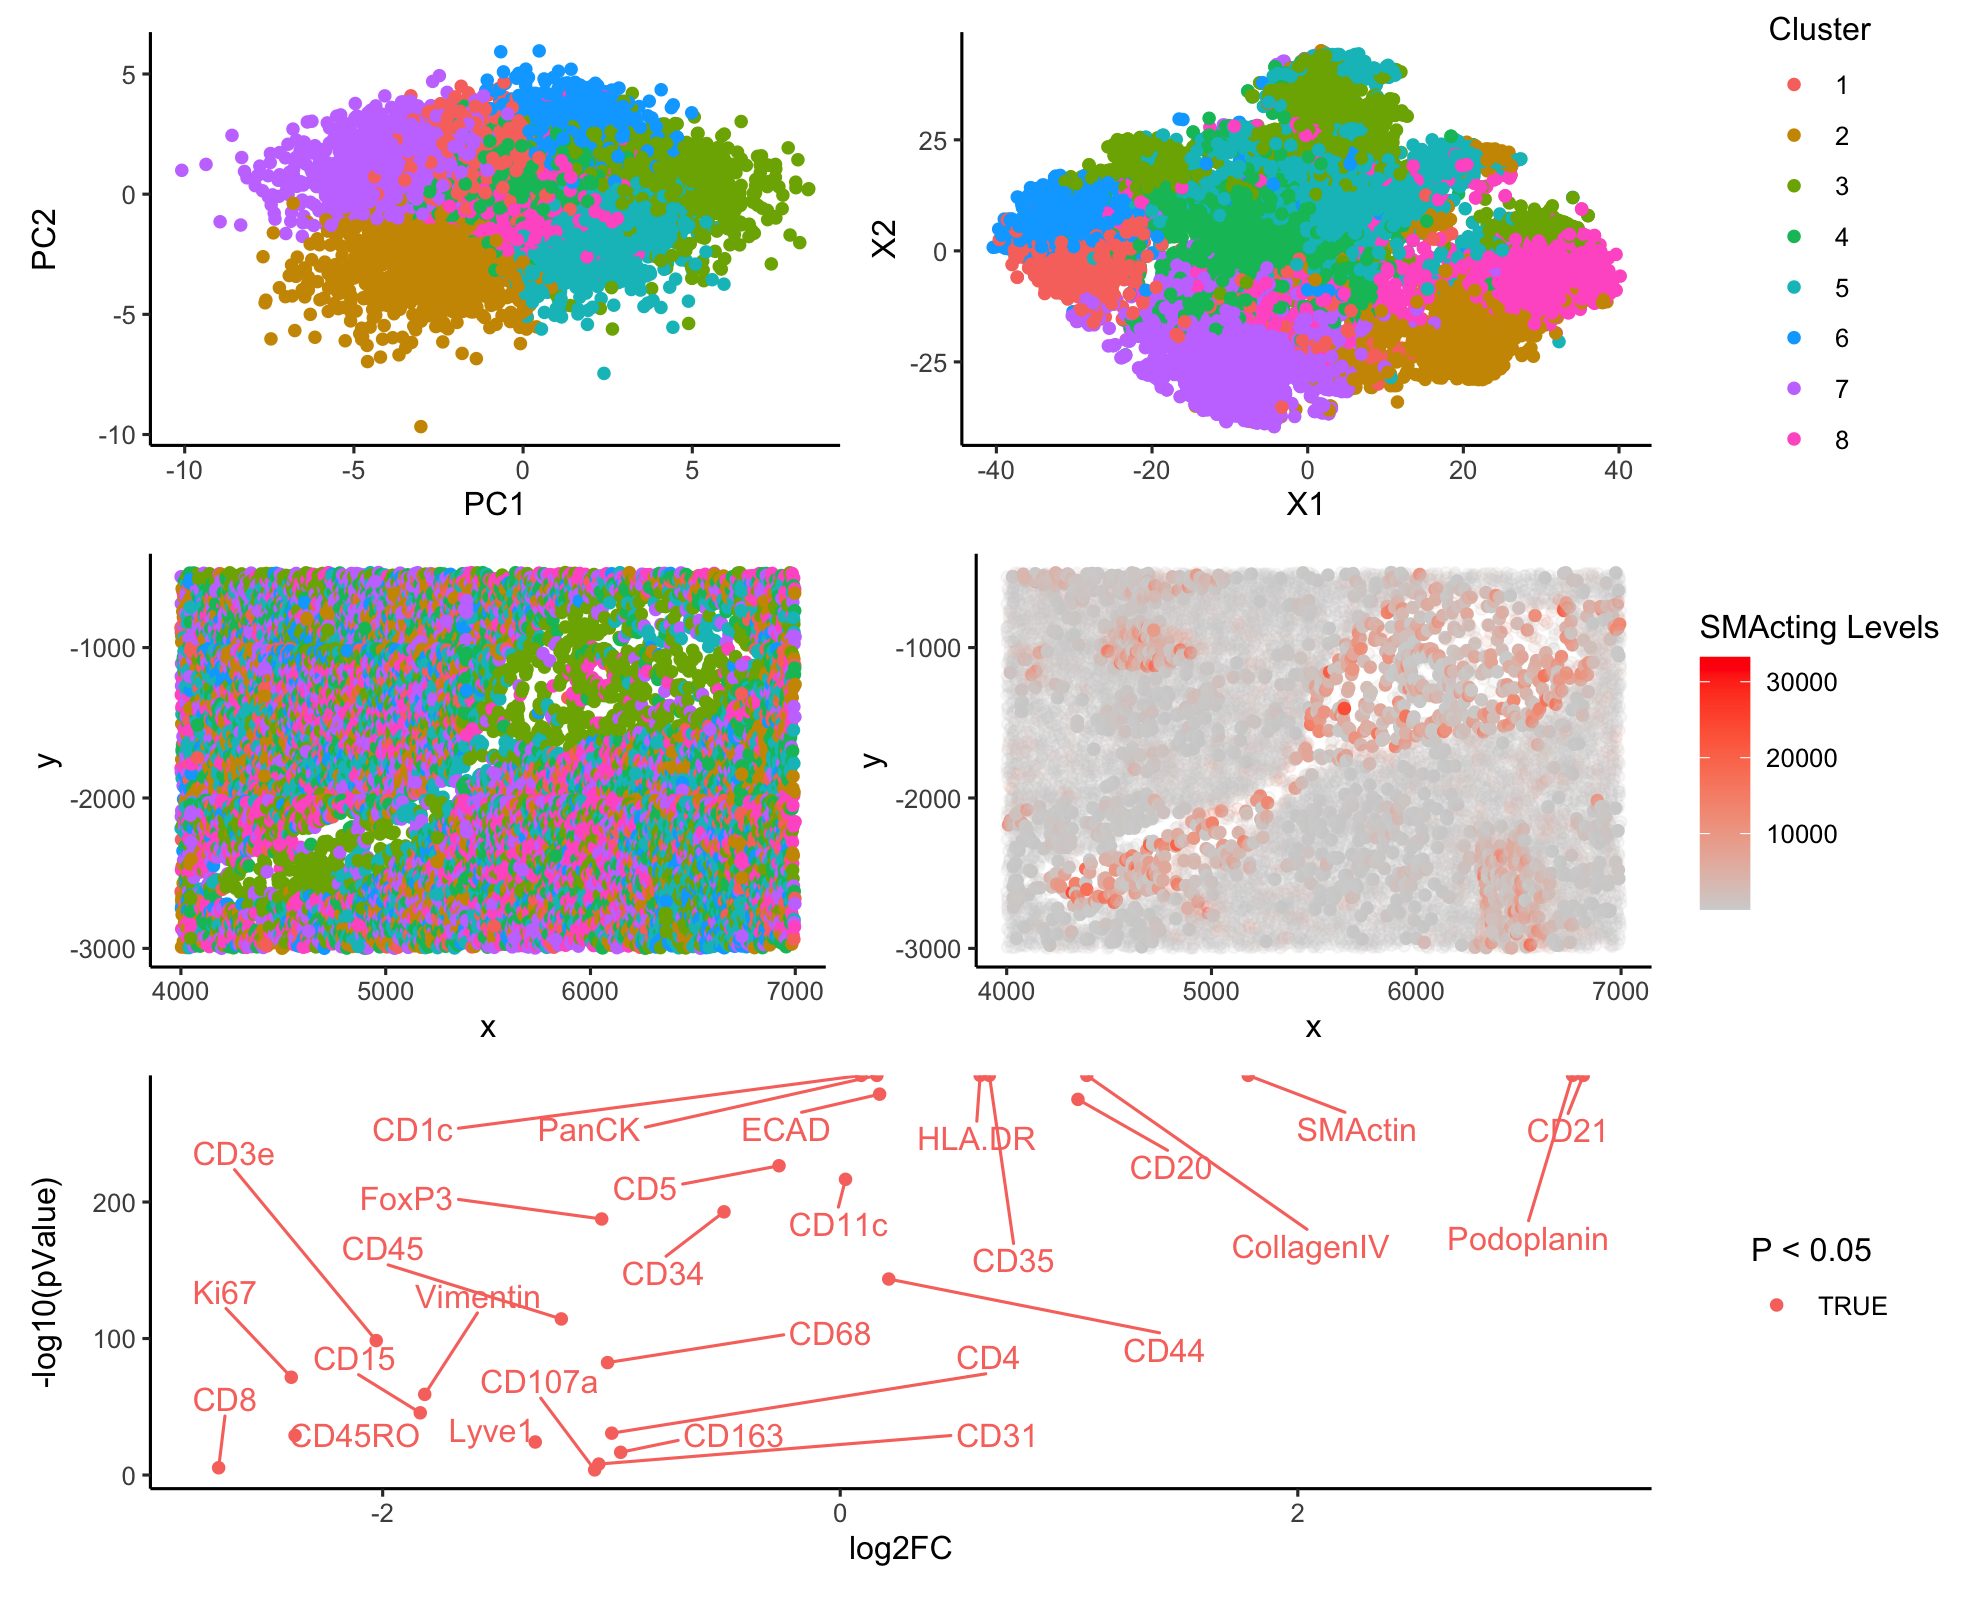
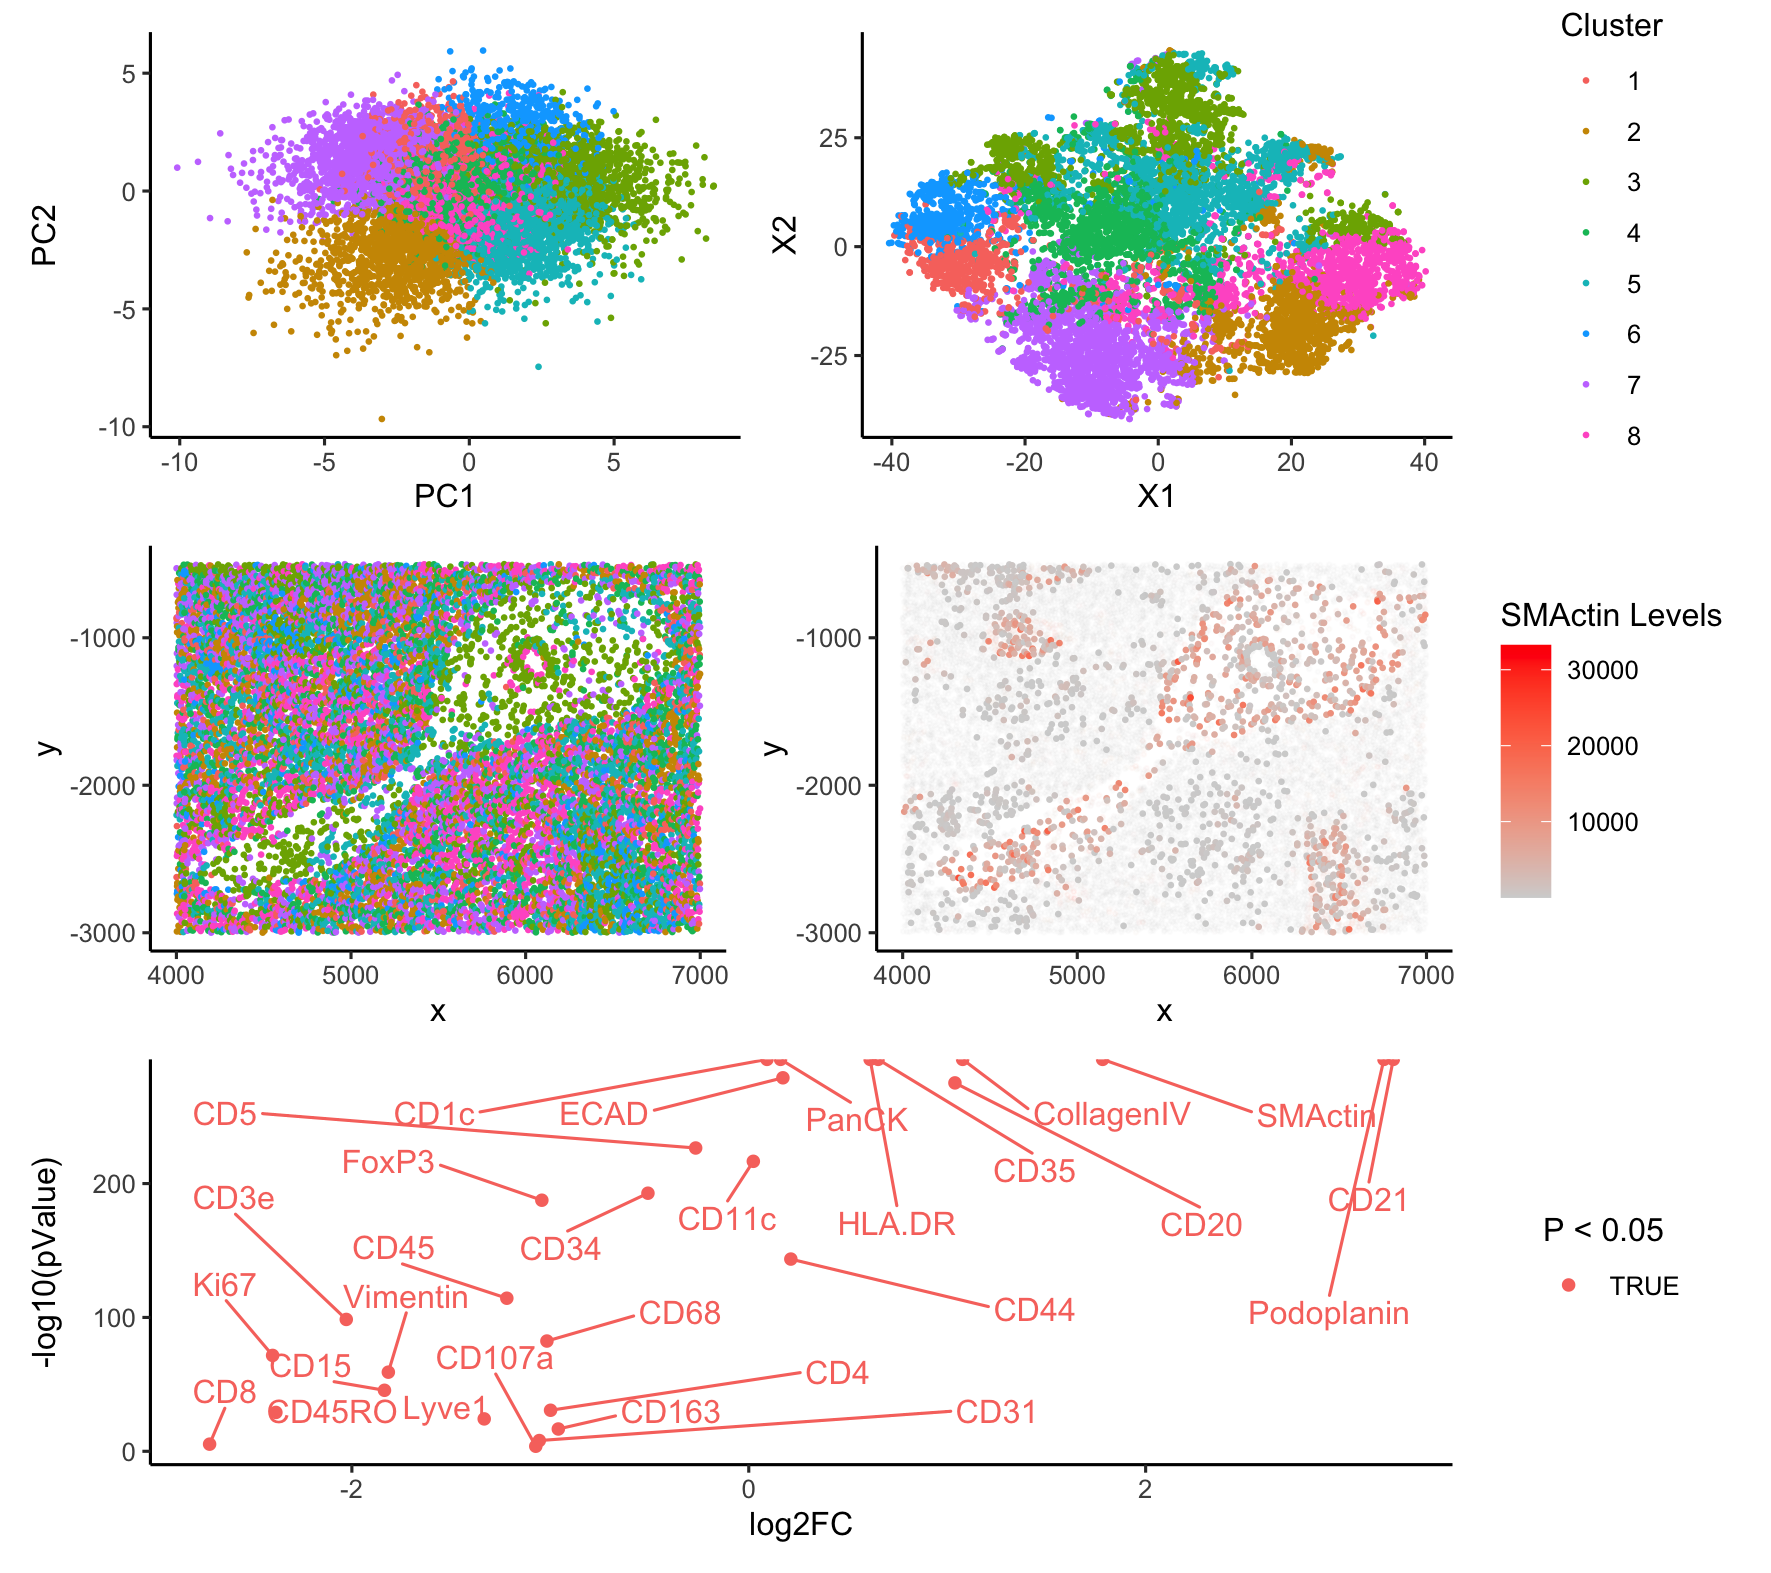
hwEC fixed

diff --git a/_posts/2023-03-10-abortvi2.md b/_posts/2023-03-10-abortvi2.md
@@ -12,6 +12,157 @@ I suspect that cluster 3 represents follciular dendritic cells (FDCs). A number 
 
 Previous research indicates that CD21 and CD35 are expressed in pairs in FDCs (Wang et al, 2011). FDCs are known to occur in the spleen and have also been shown to express SMActin (Muñoz-Fernández, 2014). Likewise, Yu, et al 2007 demonstrates that Podoplanin, another of the highly upregulated genes, is an FDC marker, albeit in the case of tumorogenesis.
 
+Code:
+```{r}
+`library(ggplot2)
+library(tidyverse)
+library(Rtsne)
+library(patchwork)
+library(ggrepel)
+
+data <- read.csv('~/genomic_data_viz/codex_spleen_subset.csv.gz',
+                 row.names = 1)
+
+# Initial Spatial Plotting
+ggplot(data = data, aes(x=x, y=y)) +
+  geom_point()
+
+# Subset data into spatial info and gene expression
+pos <- data[, 1:3]
+gexp <- data[, 4:ncol(data)]
+
+### QC
+# Plotting protein abundance per cell
+hist(rowSums(gexp))
+
+ggplot(data = data, aes(x=x, y=y, col = rowSums(gexp))) +
+  scale_color_gradient(low='lightgrey', high='red') +
+  geom_point()
+
+# Lots of variation in protein abundance, but with no obvious spatial pattern 
+
+# Plotting 
+hist(colSums(gexp), breaks = 100)
+min(colSums(gexp))
+
+# This has some pretty extreme outliers
+
+# Normalizing
+mat <- gexp / rowSums(gexp) * median(rowSums(gexp))
+mat <- log10(mat + 1)
+mat <- scale(mat)
+
+
+# Checking that this worked correctly 
+hist(rowSums(mat))
+hist(colSums(mat))
+
+
+# Clustering 
+# Finding optimal number of clusters
+within_ss_list <- c()
+max_clust = 25
+for (i in 1:max_clust){
+  set.seed(0)
+  k <- kmeans(mat, centers=i)
+  within_ss_list <- c(within_ss_list, k$tot.withinss)	
+}
+
+pltDF <- data.frame(k = 1:max_clust, withinSS <- within_ss_list)
+ggplot(pltDF, aes(x = k, y = within_ss_list)) + 
+  geom_point() + 
+  theme_classic() + 
+  scale_x_continuous(breaks=seq(1,max_clust,1),labels=seq(1,max_clust,1))
+
+# Clustering fr 
+set.seed(0)
+pc <- prcomp(mat)
+set.seed(0)
+n_centers = 8
+set.seed(0)
+k <- kmeans(mat, centers = n_centers)
+
+set.seed(0)
+emb <- Rtsne(mat)
+
+# Plotting 
+
+pca_plot <- ggplot(data.frame(pc$x), aes(x=PC1, y=PC2, color = factor(k$cluster))) +
+  geom_point(size=0.4) +
+  theme_classic() + 
+  theme(legend.position="none")
+
+tsne_plot <- ggplot(data.frame(emb$Y), aes(x=X1, y=X2, color = factor(k$cluster))) +
+  geom_point(size=0.4) +
+  labs(colour="Cluster") + 
+  theme_classic() 
+
+spatial_cluster_plot <- ggplot(pos, aes(x=x, y=y, color = factor(k$cluster))) +
+  geom_point(size=0.4) +
+  theme_classic() + 
+  theme(legend.position="none")
+
+
+for (i in seq(1, n_centers)){
+  print(ggplot(pos, aes(x=x, y=y, color = (factor(k$cluster)==i))) +
+    geom_point() + 
+    theme_classic() +
+    ggtitle(i) +
+    theme(axis.title.x = element_blank(),
+          legend.position="none")
+  )
+}
+
+cluster.cells <-  names(which(k$cluster == 3))
+other.cells <- names(which(k$cluster != 3))
+
+# First, comparing clusters 1+8 against all else
+diff<- sapply(colnames(mat), function(g){
+  wilcox.test(mat[cluster.cells, g],
+              mat[other.cells, g],
+              alternative = 'two.sided')$p.value
+  
+})
+
+head(sort(diff), n = 30)
+diff_names <- names(diff[diff < 0.05/length(diff)])
+
+ggplot(pos, aes(x=x, y=y, color = factor(k$cluster)==3)) +
+  geom_point() +
+  theme_classic()
+
+smactin <- ggplot(pos, aes(x=x, y=y, color = data.frame(gexp)$SMActin, alpha = factor(k$cluster))) +
+  geom_point(size=0.4) + 
+  labs(color='SMActin Levels') +
+  scale_alpha_manual(values = c(rep(0.05, 2), 1, rep(0.05,5)), guide = 'none') +
+  scale_color_gradient(low = 'lightgrey', high = 'red') +
+  theme_classic()
+
+
+fc <- sapply(colnames(gexp), function(g){
+  log2(mean(gexp[cluster.cells, g])/mean(gexp[other.cells, g]))
+})
+
+df_volcano <- data.frame(log2FC = fc, pValue = diff, comparison = "Group 4 vs All Others")
+
+df_volcano$gname <- rownames(df_volcano)
+
+volcano_plot <- ggplot(df_volcano, aes(x = log2FC, y = -log10(pValue), color = pValue < (0.05/ncol(mat)))) +
+  geom_point() + 
+  theme_classic() + 
+  labs(color='P < 0.05') +
+  geom_text_repel(data = df_volcano %>% 
+                    mutate(label = ifelse(gname %in% diff_names,
+                                          gname, "")),
+                  aes(label = label), 
+                  box.padding = 1,
+                  show.legend = FALSE, 
+                  max.overlaps = Inf)
+    
+(pca_plot | tsne_plot )/ (spatial_cluster_plot |smactin) / volcano_plot
+
+```
+     
 References
 Dayao, M.T., Brusko, M., Wasserfall, C. et al. Membrane marker selection for segmenting single cell spatial proteomics data. Nat Commun 13, 1999 (2022).
 
